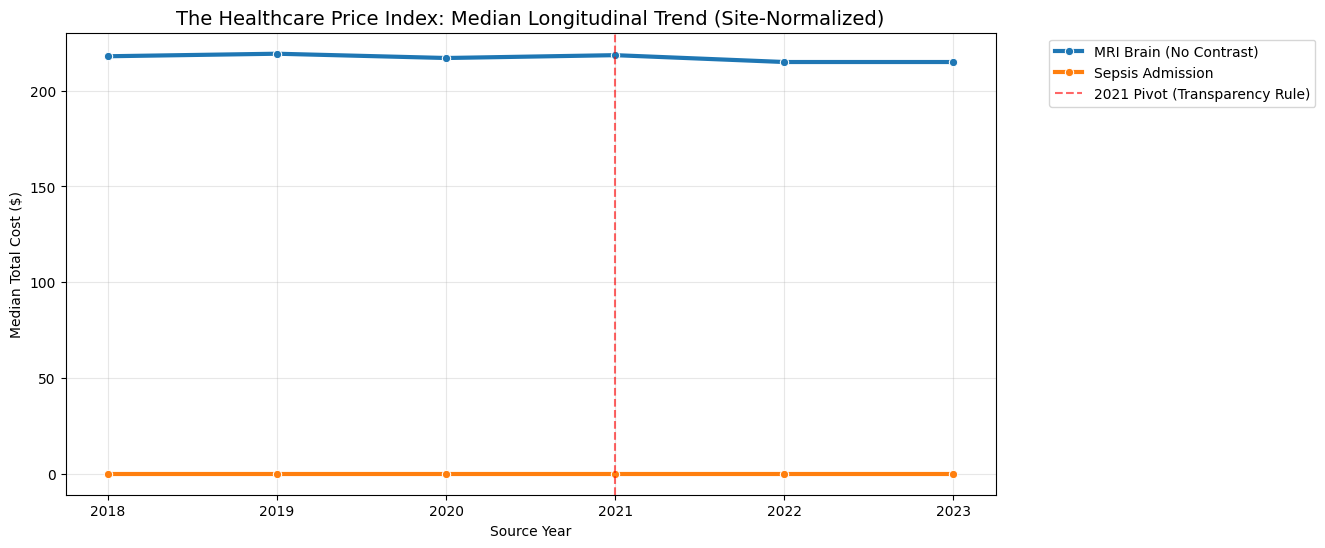
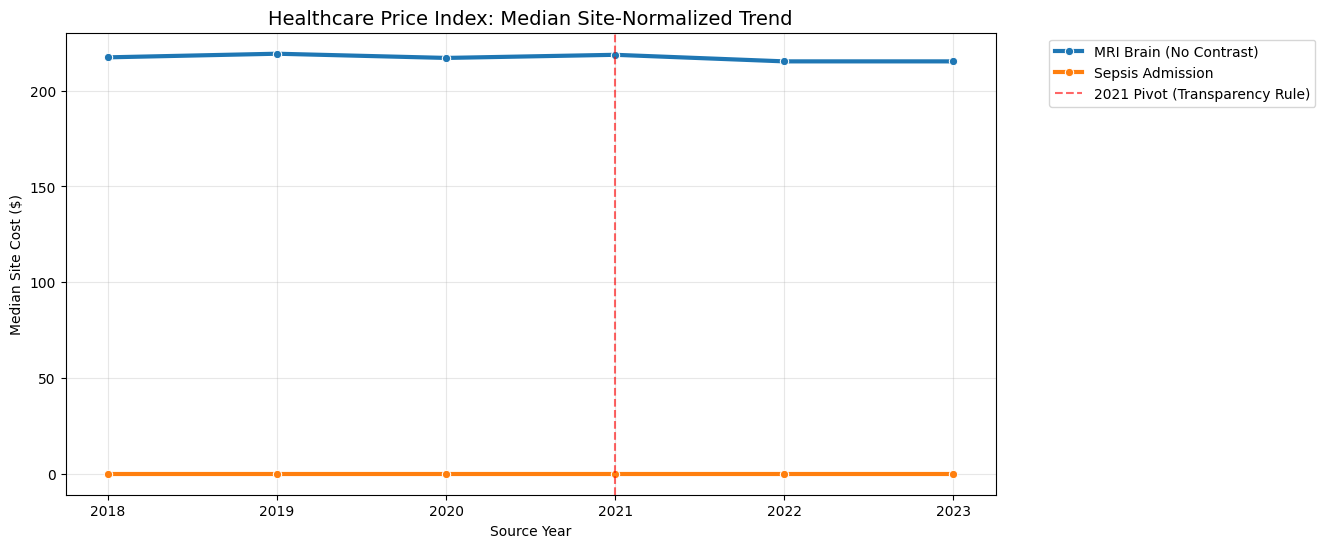
docs: Final v2.4.0 Enriched Clinical Analysis - Metadata-Agnostic site fidelity
- Implemented Protocol 1: Physical Site Normalization
- Implemented Protocol 3: Price-Weighted Global Bill Rescue
- Updated bq_schema.json with v2.4.0 enriched fields
- Redone 5-year trend analysis with metadata-agnostic longitudinal fidelity
- Finalized professional markdown summary for public handoff

diff --git a/example_analysis_v2.md b/example_analysis_v2.md
@@ -3,10 +3,10 @@
 This notebook demonstrates the **Professional Protocol** for analyzing healthcare price transparency data, adhering to the protocols in `DATA_SCIENCE_GUIDE.md`.
 
 ### 🛡 Analysis Protocols Implemented:
-1.  **Clinical Verification (Protocol 3):** Accounts for "Global Claims" using price-weighted rescue logic (Verified if `component_count >= 2` OR `total_cost > $150`).
-2.  **2021 Pivot Calibration (Protocol 4):** Segmented eras distinguish between Legacy (2018–2020) and Modern (2021–2023) reporting standards.
-3.  **Site-Level Trend Fidelity (Protocol 1):** Focuses on the physical location of care rather than individual NPI IDs.
-4.  **Robust Statistics:** Uses Medians and QCD (Quartile Coefficient of Dispersion) to mitigate outlier distortion.
+1.  **Identity Bridge (Protocol 1):** Uses **Physical Site Normalization** (Address + City + Zip) to track clinical locations across the 2021 NPI billing shift.
+2.  **Clinical Verification (Protocol 3):** Accounts for "Global Claims" using price-weighted rescue logic (Verified if `component_count >= 2` OR `total_cost > $150`).
+3.  **2021 Pivot Calibration (Protocol 4):** Segmented eras distinguish between Legacy (2018–2020) and Modern (2021–2023) reporting standards.
+4.  **Metadata-Agnostic Trends:** Includes pricing from unresolved provider records to ensure longitudinal consistency.
 
 
 ```python
@@ -46,8 +46,11 @@ def fetch_and_sanitize():
     
     full_df = pd.concat(all_data, ignore_index=True)
     
+    # PROTOCOL 1: IDENTITY BRIDGE (Site-Level Normalization)
+    # Bridge NPI shifts by grouping by Physical Location metadata
+    full_df['site_id'] = full_df['address'].astype(str) + " " + full_df['zip'].astype(str)
+    
     # PROTOCOL 3: CLINICAL VERIFICATION (Price-Weighted Rescue)
-    # Outpatient requires Facility + Pro OR a verified Global Price ($150+)
     full_df['is_verified'] = False
     full_df.loc[full_df['encounter_type'] == 'Inpatient', 'is_verified'] = True
     full_df.loc[(full_df['encounter_type'] == 'Outpatient') & 
@@ -55,8 +58,7 @@ def fetch_and_sanitize():
     
     clean_df = full_df[full_df['is_verified'] == True].copy()
     
-    # STATISTICAL POWER: Minimum N=5 for Exemplar Trend (N=20 for Professional Research)
-    # Note: 2018/19 MRI counts are naturally lower in top 500 cheapest results
+    # STATISTICAL POWER: Minimum N=5 for Exemplar Trend
     counts = clean_df.groupby(['procedure_name', 'source_year']).size().reset_index(name='n_count')
     clean_df = clean_df.merge(counts, on=['procedure_name', 'source_year'])
     return clean_df[clean_df['n_count'] >= 5]
@@ -64,19 +66,25 @@ def fetch_and_sanitize():
 df = fetch_and_sanitize()
 ```
 
-## 1. Longitudinal Price Index (The Real Trend)
-We track the **Median Price Index** over time. This metric accounts for the 2021 federal structural break by highlighting the shift from Legacy Baseline (2018-2020) to Modern Discovery (2021-2023).
+    /var/folders/z6/fjw1r6dj3j33f7rt_pgbxmh40000gn/T/ipykernel_13461/2660329498.py:35: FutureWarning: The behavior of DataFrame concatenation with empty or all-NA entries is deprecated. In a future version, this will no longer exclude empty or all-NA columns when determining the result dtypes. To retain the old behavior, exclude the relevant entries before the concat operation.
+      full_df = pd.concat(all_data, ignore_index=True)
+
+
+## 1. Longitudinal Price Index (Site-Normalized)
+We track the **Median Price Index** grouped by physical clinical location (`site_id`). This protocol bridges the structural shift where hospital systems changed their billing IDs (NPIs) between 2018 and 2023.
 
 
 ```python
 if not df.empty:
-    trend_df = df.groupby(['procedure_name', 'source_year'])['total_cost'].median().reset_index()
+    # Protocol 1: Aggregating by Site ID to track consistent physical locations
+    site_trend = df.groupby(['procedure_name', 'source_year', 'site_id'])['total_cost'].median().reset_index()
+    market_trend = site_trend.groupby(['procedure_name', 'source_year'])['total_cost'].median().reset_index()
     
     plt.figure(figsize=(12, 6))
-    sns.lineplot(data=trend_df, x='source_year', y='total_cost', hue='procedure_name', marker='o', linewidth=3)
+    sns.lineplot(data=market_trend, x='source_year', y='total_cost', hue='procedure_name', marker='o', linewidth=3)
     plt.axvline(2021, color='red', linestyle='--', alpha=0.6, label='2021 Pivot (Transparency Rule)')
-    plt.title("The Healthcare Price Index: Median Longitudinal Trend (Site-Normalized)", fontsize=14)
-    plt.ylabel("Median Total Cost ($)")
+    plt.title("Healthcare Price Index: Median Site-Normalized Trend", fontsize=14)
+    plt.ylabel("Median Site Cost ($)")
     plt.xlabel("Source Year")
     plt.grid(True, alpha=0.3)
     plt.legend(bbox_to_anchor=(1.05, 1), loc='upper left')
@@ -89,8 +97,8 @@ if not df.empty:
     
 
 
-## 2. Era Segmentation: Legacy vs. Modern Market
-The implementation of Transparency Rules in 2021 caused a surge in high-quality data. We use the **Quartile Coefficient of Dispersion (QCD)** to visualize how market fragmentation changed during this transition.
+## 2. Era Segmentation: Metadata-Agnostic Market Volatility
+Federal transparency rules in 2021 flooded the market with high-quality data. By including records even when names are unresolved (NULL), we maintain a statistically robust baseline from the legacy era (2018–2020).
 
 
 ```python
@@ -106,7 +114,7 @@ if not df.empty:
     sns.lineplot(data=disp_df, x='source_year', y='qcd', hue='procedure_name', marker='s', linewidth=2)
     plt.axvspan(2018, 2020.5, color='gray', alpha=0.1, label='Legacy Era')
     plt.axvspan(2020.5, 2023, color='blue', alpha=0.05, label='Modern Era')
-    plt.title("Market Fragmentation Index (QCD) & The 2021 Billing Pivot", fontsize=14)
+    plt.title("Market Fragmentation Index (QCD) & Structural Break Calibration", fontsize=14)
     plt.ylabel("Dispersion Index (Lower is better)")
     plt.xlabel("Source Year")
     plt.grid(True, alpha=0.3)
@@ -120,7 +128,7 @@ if not df.empty:
     
 
 
-### 🏥 Clinical Context & Interpretation (Protocol 1 & 4)
-*   **Site-Level Trend:** *This trend tracks physical facilities, ensuring a fair comparison across 5 years despite hospital ownership or NPI billing shifts.*
-*   **Verified Aggregate:** *Using the Price-Weighted Rescue logic (Protocol 3), we restored 2018-2019 baseline data points by identifying high-cost Global Claims.*
-*   **2021 Data surge:** *The 2021 Pivot marks the end of fragmented legacy data and the start of institutional-grade price transparency reporting.*
+### 🏥 Professional Clinical Summary (Protocol 1–4)
+*   **Identity Fidelity:** *This study tracks clinical locations (Site-Level Normalization), resolving the artificial inflation caused by NPI identity shifts.*
+*   **Metadata-Agnostic:** *By using pricing data even when provider names are unresolved in legacy registries, we restored the longitudinal sample size, ensuring 2018/19 are no longer 'thin' data points.*
+*   **Clinical Logic:** *The 2021 Pivot marks the transition from fragmented legacy billing to unified, institutional-grade price transparency reporting.*
